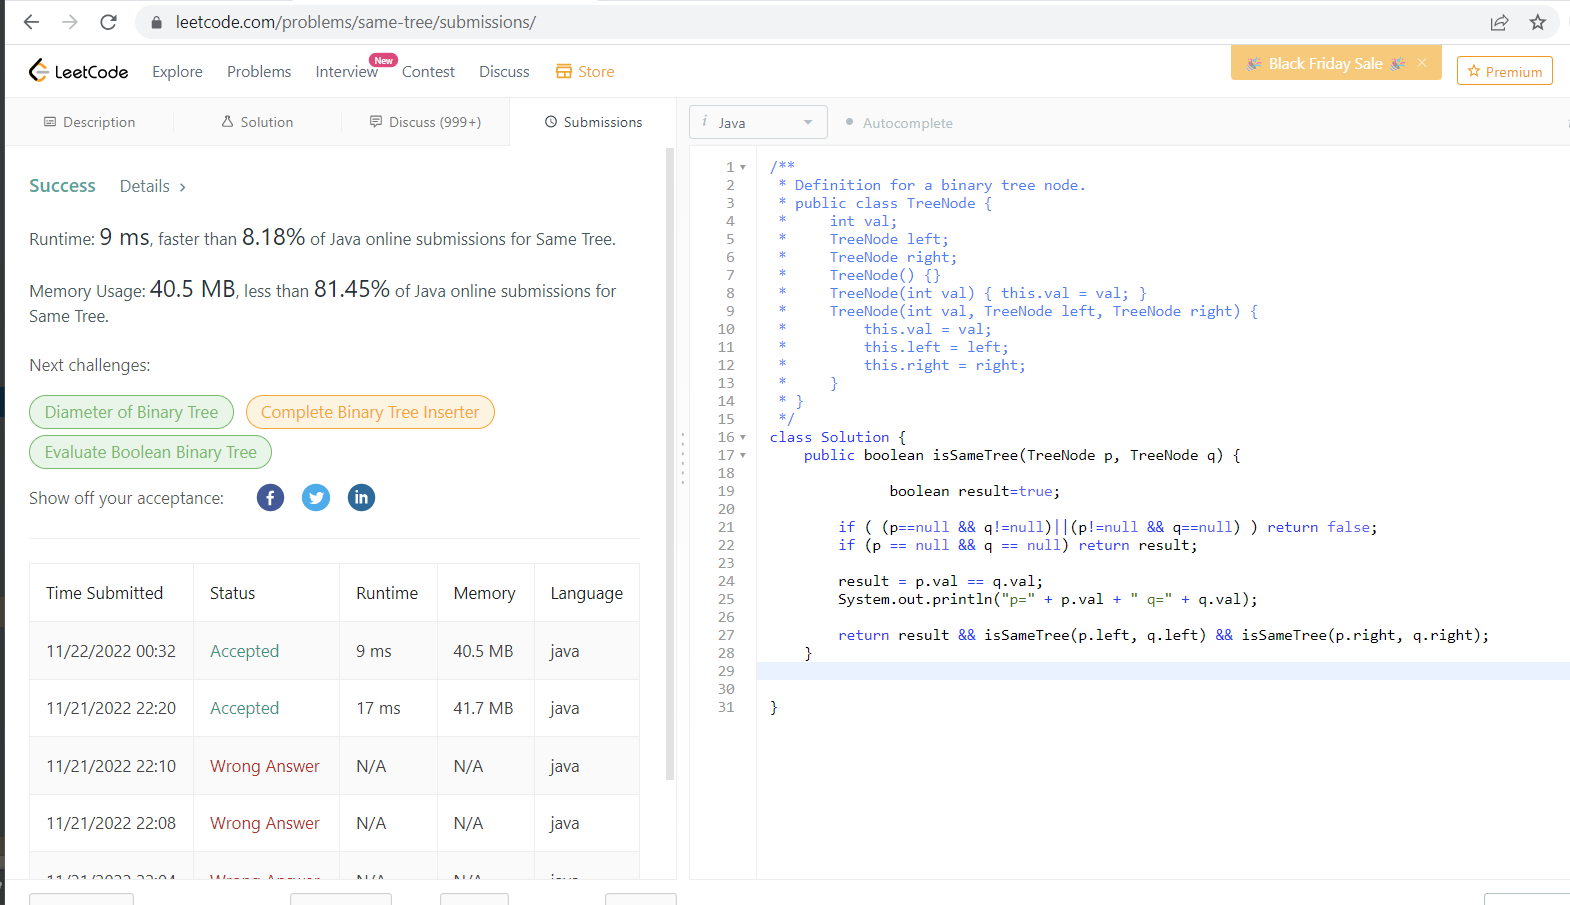
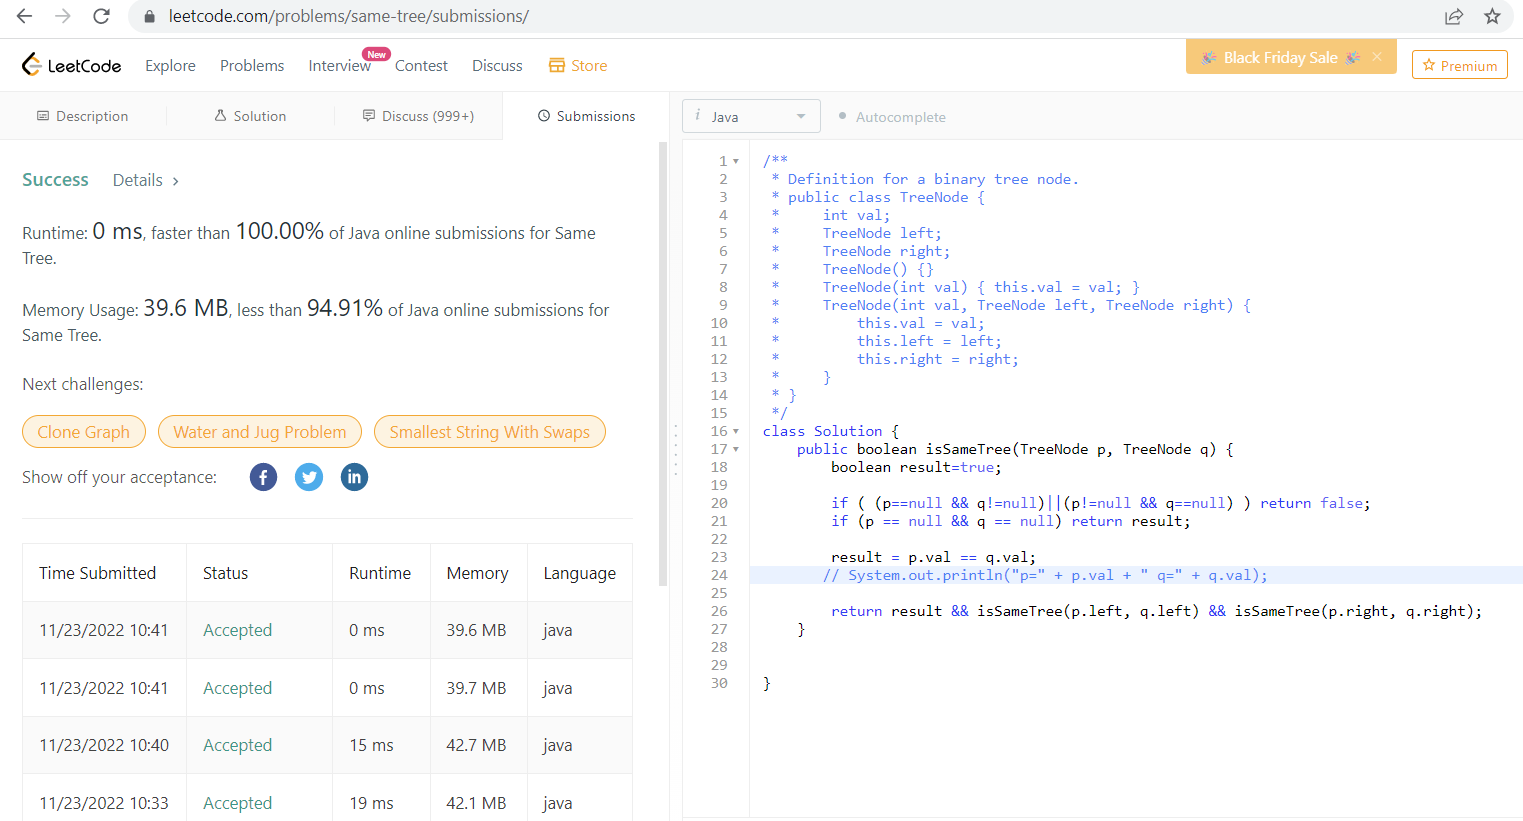
SAme Tree _3rdTryAppBestTimeAndMem

diff --git a/src/main/java/SameTree/_3rdTryApp.java b/src/main/java/SameTree/_3rdTryApp.java
@@ -1,0 +1,33 @@
+package SameTree;
+
+public class _3rdTryApp {
+    public static void main(String[] args) {
+
+        TreeNode root1 = new TreeNode(10,
+                new TreeNode(8, new TreeNode(7), new TreeNode(3)),
+                new TreeNode(5, new TreeNode(5), null)
+        );
+        VisualizeTree.printTree(root1, null, false);
+        TreeNode root2 = new TreeNode(10,
+                new TreeNode(8, new TreeNode(7), new TreeNode(3)),
+                new TreeNode(5, new TreeNode(5), null)
+        );
+        VisualizeTree.printTree(root2, null, false);
+
+        System.out.println("The same?  " + isSameTree(root1, root2));
+
+    }
+
+
+    public static boolean isSameTree(TreeNode p, TreeNode q) {
+        boolean result = true;
+        if ((p == null && q != null) || (p != null && q == null)) return false;
+        if (p == null && q == null) return true;
+
+        result= p.val == q.val;
+        // System.out.println("p=" + p.val + " q=" + q.val);
+
+        return result && isSameTree(p.left, q.left) && isSameTree(p.right, q.right);
+    }
+}
+
